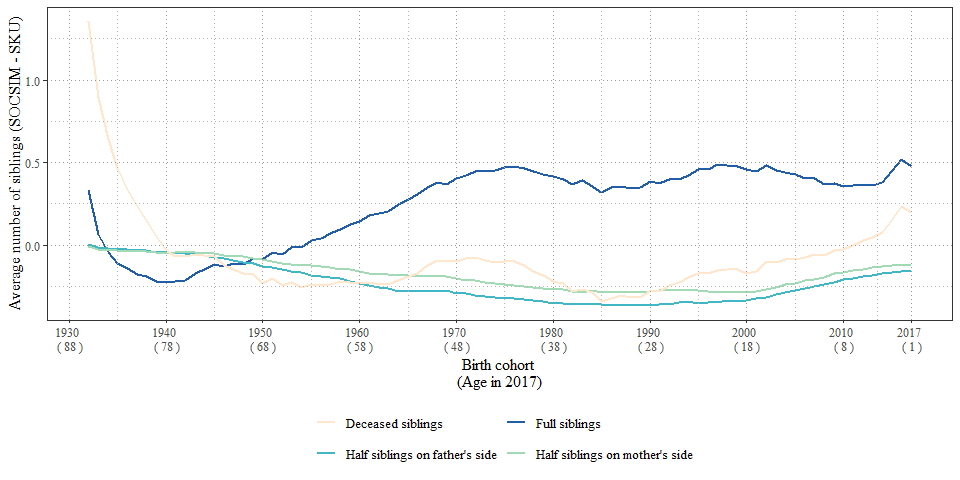
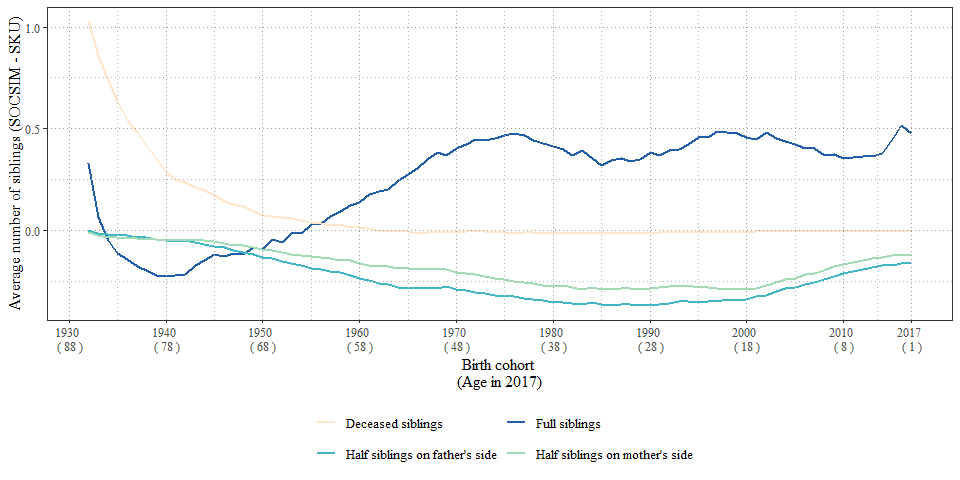
Correct figure 3 to estimate the actual number of deceased people from the data (including also the alive)

diff --git a/2_Compare_Figures.md b/2_Compare_Figures.md
@@ -429,14 +429,16 @@ Fig2b_SKU <- ggplot() +
         strip.background = element_rect(color = "#000000", fill = "#FFFFFF"))+
   scale_y_continuous(breaks = seq(0,2.5, by = 0.5))
 
+# The data for children (both in the .xlsx and SOCSIM) include both the alive and the deceased kin 
+# as registered deceased or not living.
+# So, we need to estimate the actual registered deceased by subtracting the number of people alive
+
 # Plot difference
 Fig2b_Diff <- left_join(SKU %>% 
                           filter(Fig == "Fig2b") %>% 
                           select(IDbirthYear, Kon, mean_children, type) %>% 
                           pivot_wider(names_from = type, values_from = mean_children) %>% 
                           mutate_at(c(3:6), ~ replace_na(.,0)) %>% 
-                          # The registered deceased from the table include both the living and the deceased
-                          # So, we need to estimate the actual number of deceased
                           mutate(`not living` = `registered deceased` - `1` - `2` - `>2`) %>%
                           select(-`registered deceased`) %>% 
                           pivot_longer(cols = c(3:6), 
@@ -676,14 +678,31 @@ Fig3_SKU <- ggplot() +
         text = element_text(family = "Times", size = 12)) +
   guides(fill = guide_legend(override.aes = list(color = 0)))
 
+# The data for niblings (both in the .xlsx and SOCSIM) include both the alive and the deceased kin 
+# as registered deceased or not living.
+# So, we need to estimate the actual registered deceased by subtracting the number of people alive
+
 Fig3_Diff <- left_join(SKU %>% 
-                          filter(Fig == "Fig3") %>% 
-                          select(IDbirthYear, mean_kin_SKU = mean_kin, type) %>% 
-                          mutate(type = ifelse(type == "registered deceased", "not living", type), 
-                                 type = factor(type, levels = c("not living", "half brother side","full brother side", "half sister side","full sister side"))) %>% 
-                         rename(Type = type), 
+                         filter(Fig == "Fig3") %>% 
+                         select(IDbirthYear, mean_kin, type) %>% 
+                         pivot_wider(names_from = type, values_from = mean_kin) %>% 
+                         mutate_at(c(2:6), ~ replace_na(.,0)) %>% 
+                         # The not living from the table include both the living and the deceased
+                         # So, we need to estimate the actual number of deceased
+                         mutate(alive = `half brother side` + `full brother side` + `half sister side` + `full sister side`,
+                                `not living` = `registered deceased` - alive) %>%
+                         select(-c(`registered deceased`, alive)) %>% 
+                         pivot_longer(cols = c(2:6), 
+                                      names_to = "Type", values_to = "mean_kin_SKU"),
                         sibchild_table %>% 
-                          rename(mean_kin_SOCSIM = mean_kin)) %>% 
+                         pivot_wider(names_from = Type, values_from = mean_kin) %>% 
+                         rename(all = `not living`) %>% 
+                         mutate_at(c(2:6), ~ replace_na(.,0)) %>% 
+                         mutate(alive = `half brother side` + `full brother side` + `half sister side` + `full sister side`,
+                                `not living` = all - alive) %>%
+                         select(-c(all, alive)) %>% 
+                         pivot_longer(cols = c(2:6), 
+                                      names_to = "Type", values_to = "mean_kin_SOCSIM")) %>%  
   mutate(Difference = mean_kin_SOCSIM - mean_kin_SKU) %>%
   filter(!is.na(Difference)) %>% 
   ggplot()+
@@ -820,14 +839,29 @@ Fig4a_SKU <- ggplot() +
         text = element_text(family = "Times", size = 12)) +
   guides(fill = guide_legend(ncol = 2, byrow = TRUE, reverse = TRUE))
 
+# The data for siblings (both in the .xlsx and SOCSIM) include both the alive and the deceased cousins as non.living.
+# So, we need to estimate the actual registered deceased by subtracting the number of people alive
 
 Fig4a_Diff <- left_join(SKU %>% 
                           filter(Fig == "Fig4a") %>% 
-                          select(IDbirthYear, mean_siblings_SKU = mean_siblings, type) %>% 
-                         rename(Type = type), 
-                        sibling_table %>% 
-                          rename(mean_siblings_SOCSIM = mean_siblings, 
-                                 Type = refTypeIIII)) %>% 
+                          select(IDbirthYear, mean_siblings, type) %>% 
+                          pivot_wider(names_from = type, values_from = mean_siblings) %>% 
+                          rename(all = `not living`) %>% 
+                          mutate_at(c(2:5), ~ replace_na(.,0)) %>% 
+                          mutate(alive = full +  half.father + half.mother,
+                                `not living` = all - alive) %>%
+                          select(-c(all, alive)) %>% 
+                          pivot_longer(cols = c(2:5), 
+                                       names_to = "Type", values_to = "mean_siblings_SKU"), 
+                          sibling_table %>% 
+                          pivot_wider(names_from = refTypeIIII, values_from = mean_siblings) %>% 
+                          rename(all = `not living`) %>% 
+                          mutate_at(c(2:5), ~ replace_na(.,0)) %>% 
+                          mutate(alive = full +  half.father + half.mother,
+                                `not living` = all - alive) %>%
+                          select(-c(all, alive)) %>% 
+                          pivot_longer(cols = c(2:5), 
+                                       names_to = "Type", values_to = "mean_siblings_SOCSIM")) %>%  
   mutate(Difference = mean_siblings_SOCSIM - mean_siblings_SKU) %>%
   filter(!is.na(Difference)) %>% 
   ggplot()+
@@ -870,20 +904,10 @@ Fig4b_SOCSIM <- ggplot(data = sibling_dist_Table_living) +
   labs(x = "Birth cohort \n(Age in 2017)", y = "Proportion in Microsimulation", fill = "")+
   scale_fill_manual(values = c("#081D58", "#225EA8","#1D91C0", 
                                 "#41B6C4","#7FCDBB","#C7E9B4", "#F6EAD2"),
-                    limits = c("6 or more siblings", 
-                               "5 siblings", 
-                               "4 siblings", 
-                               "3 siblings", 
-                               "2 siblings", 
-                               "1 sibling", 
-                               "No siblings"),
-                    labels = c("6 or more siblings", 
-                               "5 siblings", 
-                               "4 siblings", 
-                               "3 siblings", 
-                               "2 siblings", 
-                               "1 sibling", 
-                               "No siblings")) +
+                    limits = c("6 or more siblings", "5 siblings", "4 siblings", 
+                               "3 siblings", "2 siblings", "1 sibling", "No siblings"),
+                    labels = c("6 or more siblings", "5 siblings", "4 siblings", 
+                               "3 siblings", "2 siblings", "1 sibling", "No siblings")) +
   scale_x_continuous(breaks   = c(seq(1920, 2010,by = 10), 2017), labels = paste(c(seq(1920, 2010,by = 10), 2017), "\n", "(",2018 - c(seq(1920, 2010,by = 10), 2017),")")) +
   scale_y_continuous(breaks = seq(0,1, by = 0.2))+
   theme_bw() +
@@ -909,20 +933,10 @@ Fig4b_SKU <- ggplot(data = SKU %>%
   labs(x = "Birth cohort \n(Age in 2017)", y = "Proportion in Registers", fill = "")+
     scale_fill_manual(values = c("#081D58", "#225EA8","#1D91C0", 
                                 "#41B6C4","#7FCDBB","#C7E9B4", "#F6EAD2"),
-                    limits = c("6 or more siblings", 
-                               "5 siblings", 
-                               "4 siblings", 
-                               "3 siblings", 
-                               "2 siblings", 
-                               "1 sibling", 
-                               "No siblings"),
-                    labels = c("6 or more siblings", 
-                               "5 siblings", 
-                               "4 siblings", 
-                               "3 siblings", 
-                               "2 siblings", 
-                               "1 sibling", 
-                               "No siblings")) +
+                    limits = c("6 or more siblings", "5 siblings", "4 siblings", 
+                               "3 siblings", "2 siblings", "1 sibling", "No siblings"),
+                    labels = c("6 or more siblings", "5 siblings", "4 siblings", 
+                               "3 siblings", "2 siblings", "1 sibling", "No siblings")) +
   scale_x_continuous(breaks   = c(seq(1920, 2010,by = 10), 2017), labels = paste(c(seq(1920, 2010,by = 10), 2017), "\n", "(",2018 - c(seq(1920, 2010,by = 10), 2017),")")) +
   scale_y_continuous(breaks = seq(0,1, by = 0.2))+
   theme_bw() +
@@ -949,20 +963,10 @@ Fig4b_Diff <- left_join(SKU %>%
   labs(x = "Birth cohort \n(Age in 2017)", y = "Proportion", color = "")+
   scale_color_manual(values = c("#081D58", "#225EA8","#1D91C0", 
                                 "#41B6C4","#7FCDBB","#C7E9B4", "#F6EAD2"),
-                    limits = c("6 or more siblings", 
-                               "5 siblings", 
-                               "4 siblings", 
-                               "3 siblings", 
-                               "2 siblings", 
-                               "1 sibling", 
-                               "No siblings"),
-                    labels = c("6 or more siblings", 
-                               "5 siblings", 
-                               "4 siblings", 
-                               "3 siblings", 
-                               "2 siblings", 
-                               "1 sibling", 
-                               "No siblings")) +
+                    limits = c("6 or more siblings", "5 siblings", "4 siblings", 
+                               "3 siblings", "2 siblings", "1 sibling", "No siblings"),
+                    labels = c("6 or more siblings", "5 siblings", "4 siblings", 
+                               "3 siblings", "2 siblings", "1 sibling", "No siblings")) +
   scale_x_continuous(breaks   = c(seq(1920, 2010,by = 10), 2017), 
                      labels = paste(c(seq(1920, 2010,by = 10), 2017), "\n", "(",2018 - c(seq(1920, 2010,by = 10), 2017),")")) +
   theme_bw() +
@@ -1335,6 +1339,7 @@ Fig6a_SKU <- SKU %>%
   guides(fill = guide_legend(override.aes = list(color = 0), ncol = 2, byrow = TRUE))
 
 Fig6a_Diff <- left_join(SKU %>% 
+                          # We need estimate the number of unregistered parents which is not included in the table
                           filter(Fig == "Fig6a") %>% 
                           pivot_wider(names_from = Type, values_from = mean_kin) %>% 
                           mutate(unregistered = 2-(father + mother + `registered deceased`)) %>%
@@ -1467,7 +1472,9 @@ Fig6b_SKU <- ggplot() +
         text = element_text(family = "Times", size = 12)) +
   guides(fill = guide_legend(override.aes = list(color = 0), ncol = 3, byrow = TRUE))
 
-
+# The data for parents siblings (both in the .xlsx and SOCSIM) include both the alive and the deceased kin
+# as `registered deceased` or not living.
+# So, we need to estimate the actual registered deceased by subtracting the number of people alive
 Fig6b_Diff <- left_join(SKU %>% 
                           filter(Fig == "Fig6b") %>% 
                           select(IDbirthYear, mean_kin, type) %>% 
